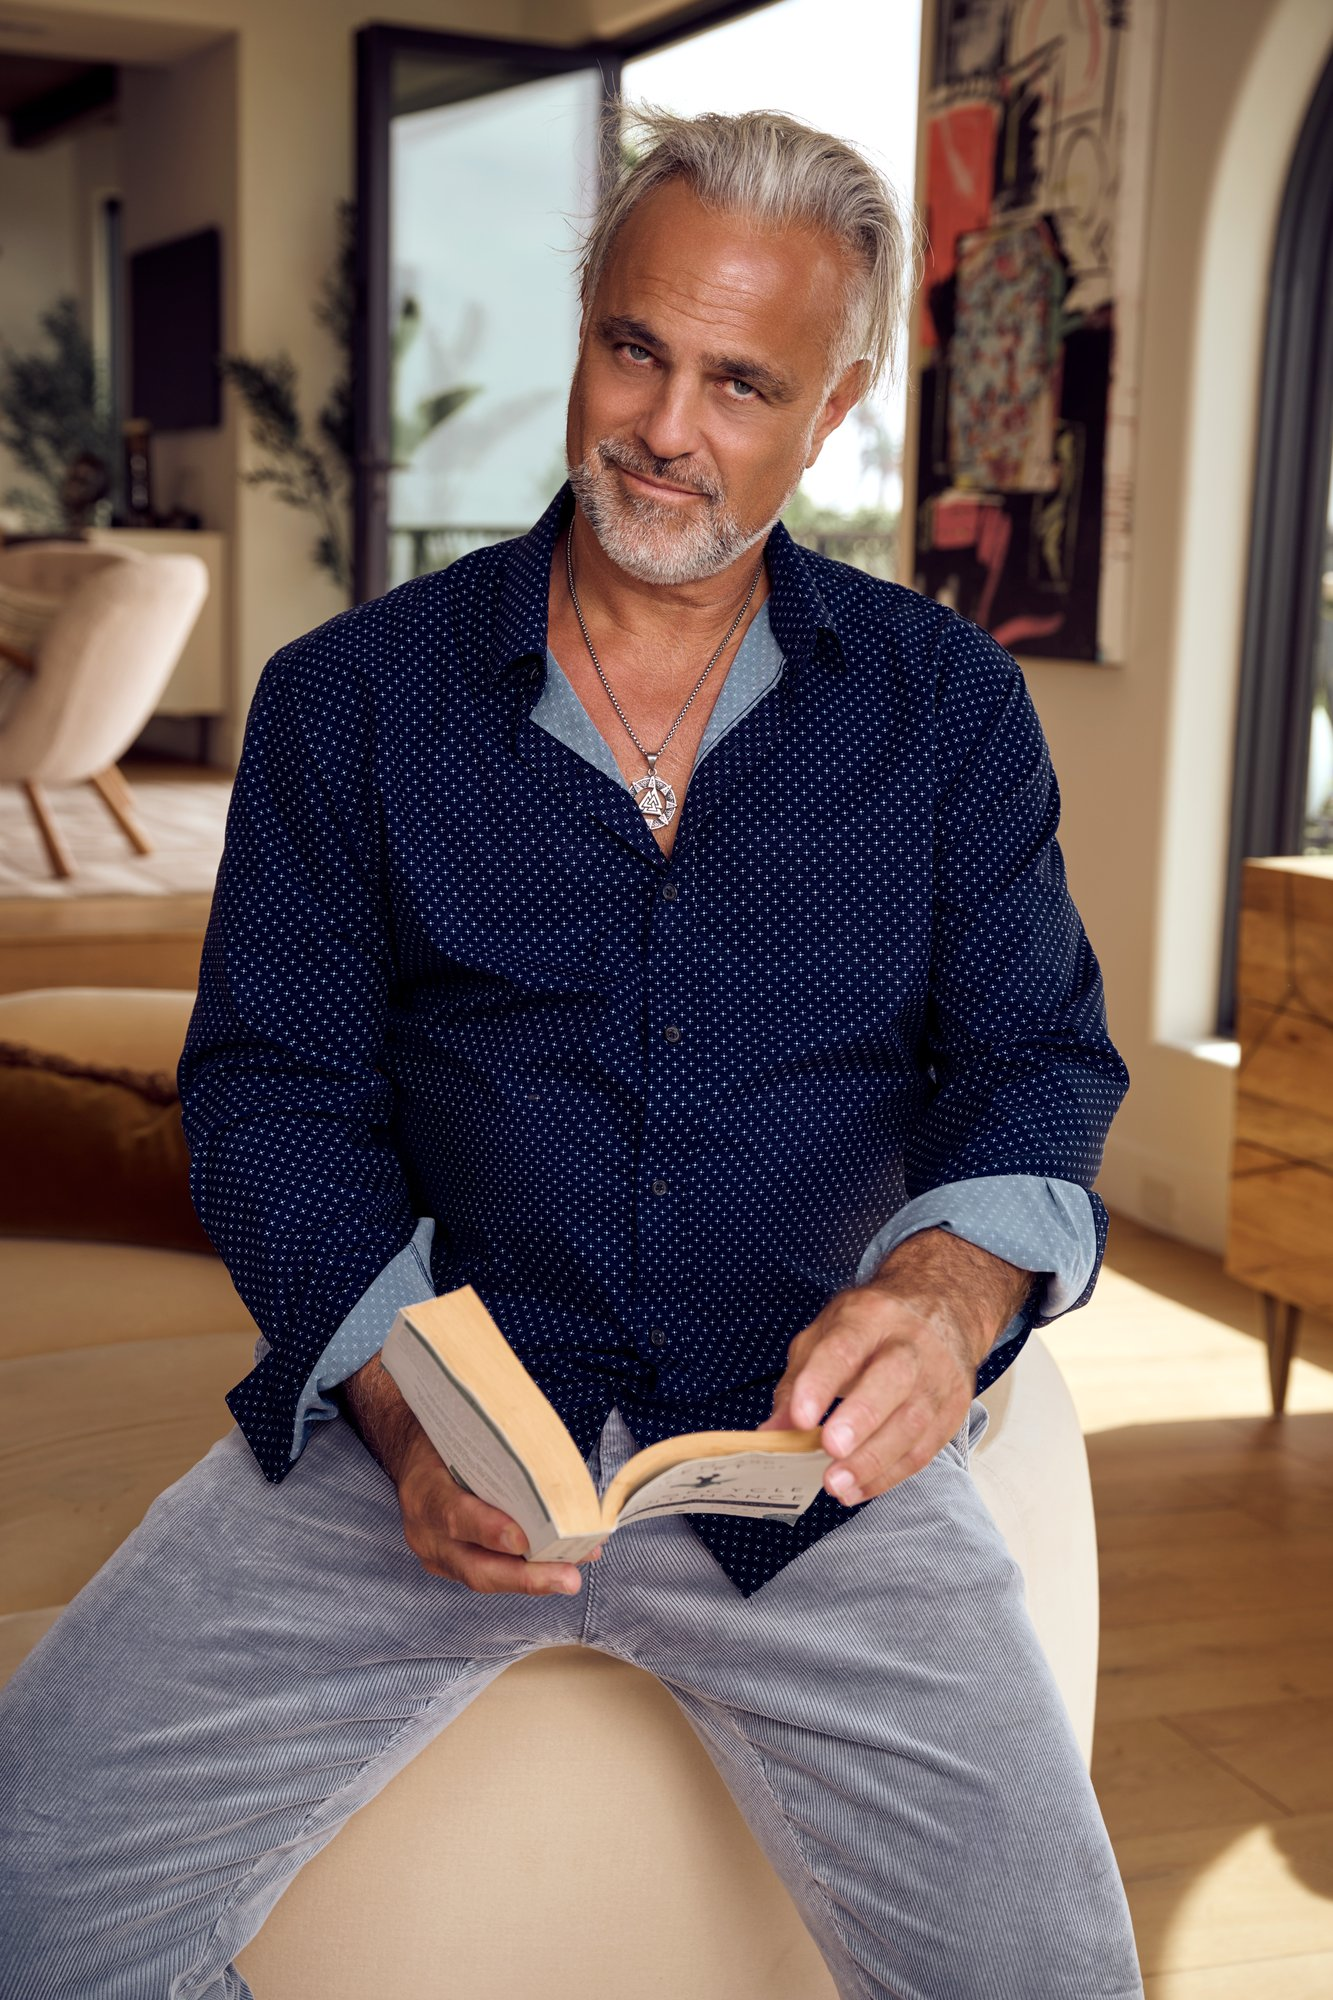
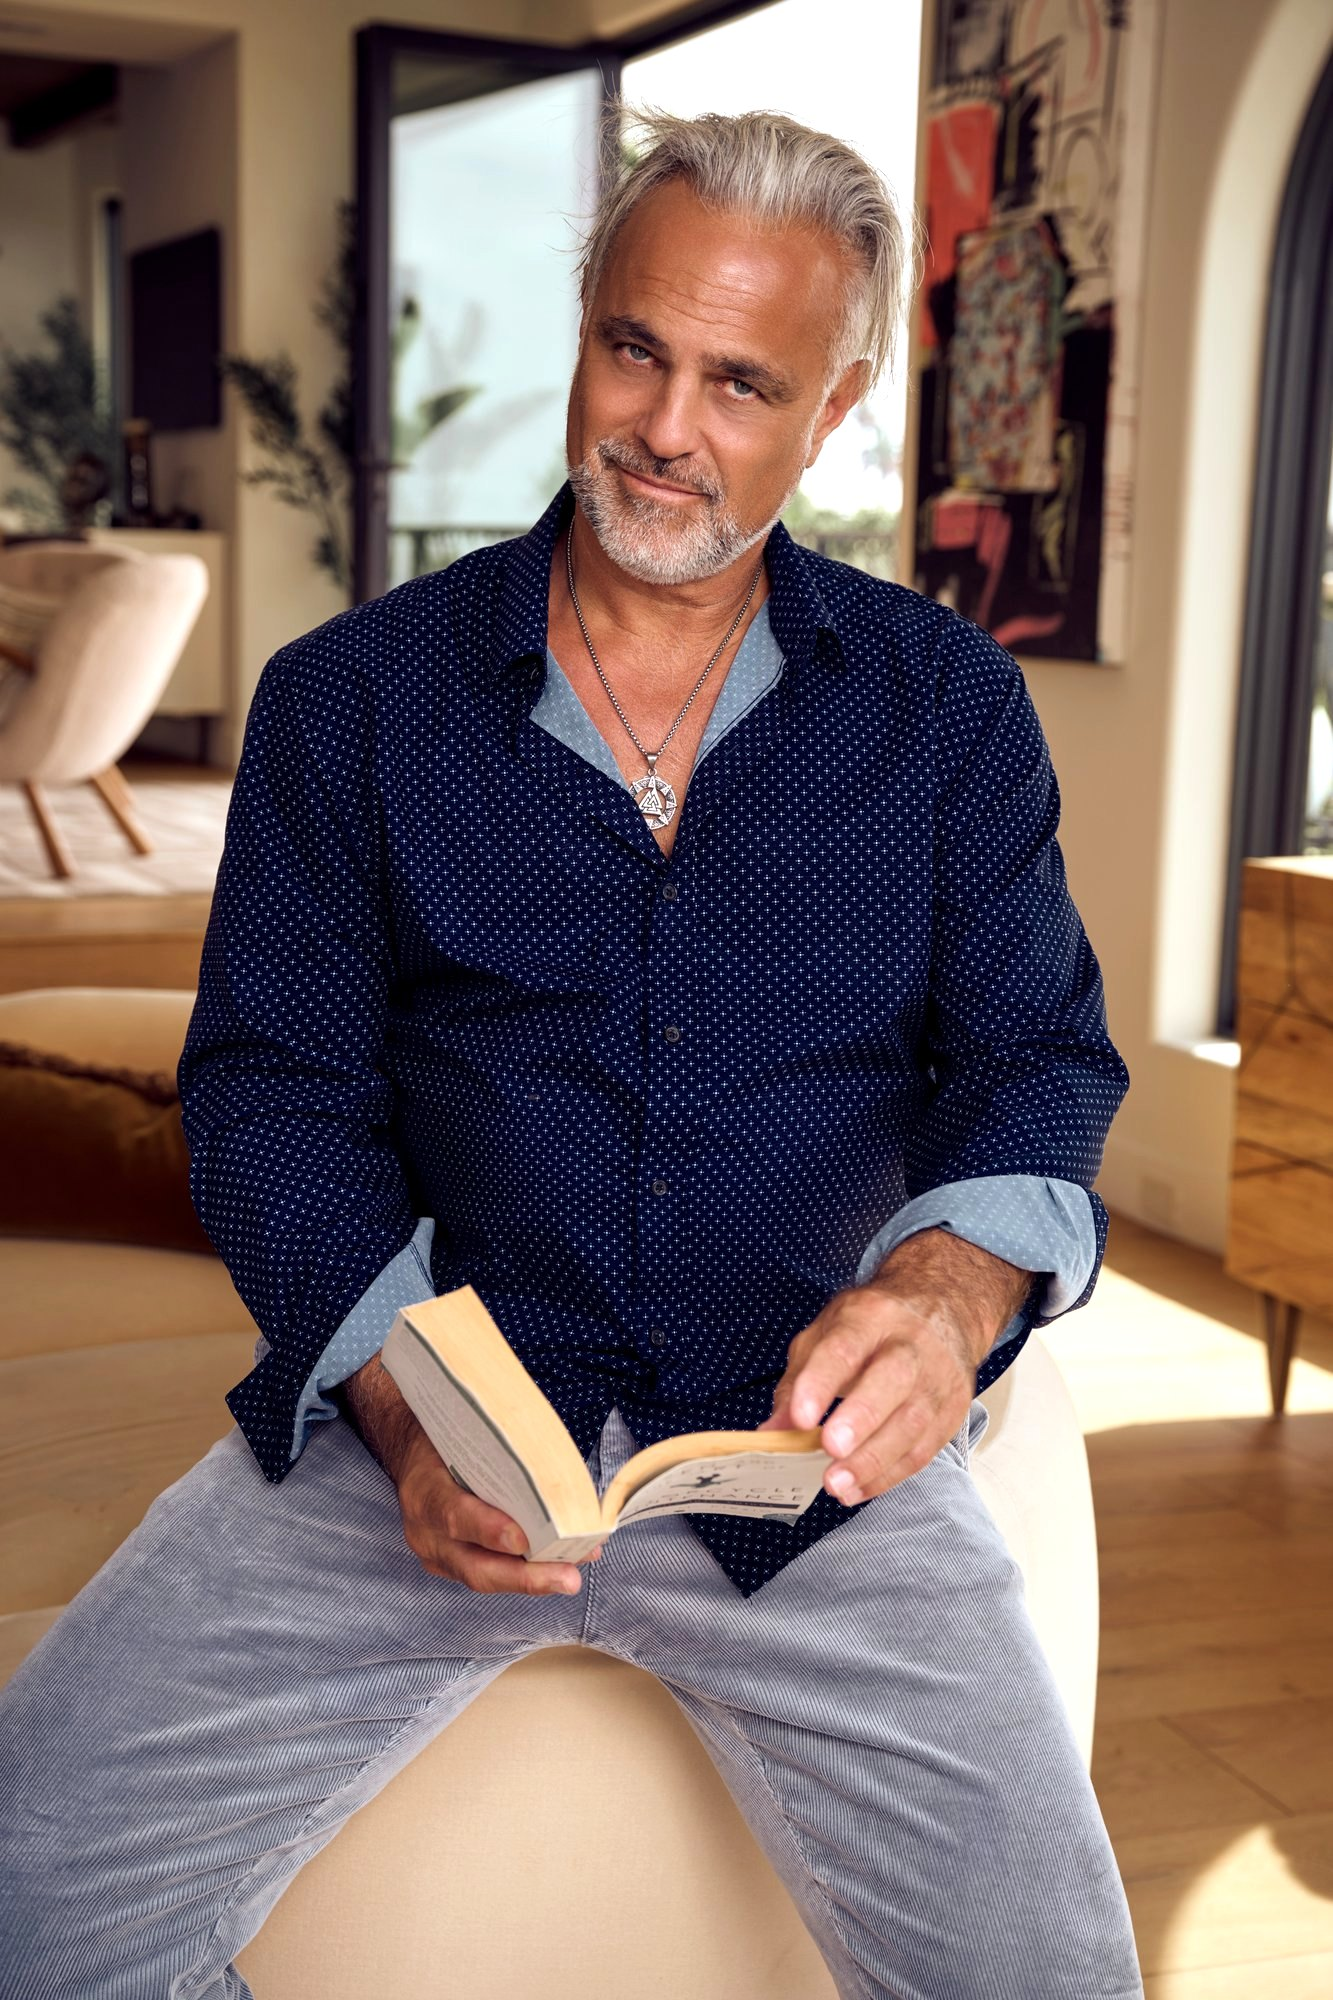
Kent Seton: tune book, window and chair photos
Claude-Session: https://claude.ai/code/session_012U18n2jx8i57thyH5Nwtnb

diff --git a/features/kent-seton/index.html b/features/kent-seton/index.html
@@ -319,7 +319,7 @@ footer p span{color:#1d2541}
 
     <div class="wrap wide">
       <div class="pq ir boxed photo" style="--ar:1333/2000">
-        <figure><span class="crop"><img loading="lazy" src="/features/kent-seton/img/book.jpg" alt="Kent Seton seated with a book in his hands"></span></figure>
+        <figure><span class="crop"><img loading="lazy" src="/features/kent-seton/img/book.jpg" alt="Kent Seton seated with a book in his hands" style="object-position:11.5% 47.5%;transform-origin:11.5% 47.5%;transform:scale(1.09)"></span></figure>
         <div class="q"><blockquote class="long" style="text-wrap:balance">“That transition led him to law.”</blockquote></div>
       </div>
     </div>
@@ -338,8 +338,8 @@ footer p span{color:#1d2541}
     </div>
 
     <div class="wrap wide g g2">
-      <figure><span class="crop"><img loading="lazy" src="/features/kent-seton/img/window.jpg" alt="Kent Seton standing by an arched window" style="aspect-ratio:1333/2000;object-position:50% 50%"></span></figure>
-      <figure><span class="crop"><img loading="lazy" src="/features/kent-seton/img/chair.jpg" alt="Kent Seton seated, leaning forward" style="aspect-ratio:1333/2000;object-position:50% 50%"></span></figure>
+      <figure><span class="crop"><img loading="lazy" src="/features/kent-seton/img/window.jpg" alt="Kent Seton standing by an arched window" style="aspect-ratio:1333/2000;object-position:33% 43.5%;transform-origin:33% 43.5%;transform:translate(0px, -64px) scale(1.18)"></span></figure>
+      <figure><span class="crop"><img loading="lazy" src="/features/kent-seton/img/chair.jpg" alt="Kent Seton seated, leaning forward" style="aspect-ratio:1333/2000;object-position:50% 67%;transform-origin:50% 67%;transform:scale(1.08)"></span></figure>
     </div>
 
     <div class="wrap col">

diff --git a/_build/feature-template/kent-seton-source.html b/_build/feature-template/kent-seton-source.html
@@ -312,7 +312,7 @@ footer p span{color:#1d2541}
 
     <div class="wrap wide">
       <div class="pq ir boxed photo" style="--ar:1333/2000">
-        <figure><span class="crop"><img src="{{book}}" alt="Kent Seton seated with a book in his hands"></span></figure>
+        <figure><span class="crop"><img src="{{book}}" alt="Kent Seton seated with a book in his hands" style="object-position:11.5% 47.5%;transform-origin:11.5% 47.5%;transform:scale(1.09)"></span></figure>
         <div class="q"><blockquote class="long" style="text-wrap:balance">“That transition led him to law.”</blockquote></div>
       </div>
     </div>
@@ -331,8 +331,8 @@ footer p span{color:#1d2541}
     </div>
 
     <div class="wrap wide g g2">
-      <figure><span class="crop"><img src="{{window}}" alt="Kent Seton standing by an arched window" style="aspect-ratio:1333/2000;object-position:50% 50%"></span></figure>
-      <figure><span class="crop"><img src="{{chair}}" alt="Kent Seton seated, leaning forward" style="aspect-ratio:1333/2000;object-position:50% 50%"></span></figure>
+      <figure><span class="crop"><img src="{{window}}" alt="Kent Seton standing by an arched window" style="aspect-ratio:1333/2000;object-position:33% 43.5%;transform-origin:33% 43.5%;transform:translate(0px, -64px) scale(1.18)"></span></figure>
+      <figure><span class="crop"><img src="{{chair}}" alt="Kent Seton seated, leaning forward" style="aspect-ratio:1333/2000;object-position:50% 67%;transform-origin:50% 67%;transform:scale(1.08)"></span></figure>
     </div>
 
     <div class="wrap col">
